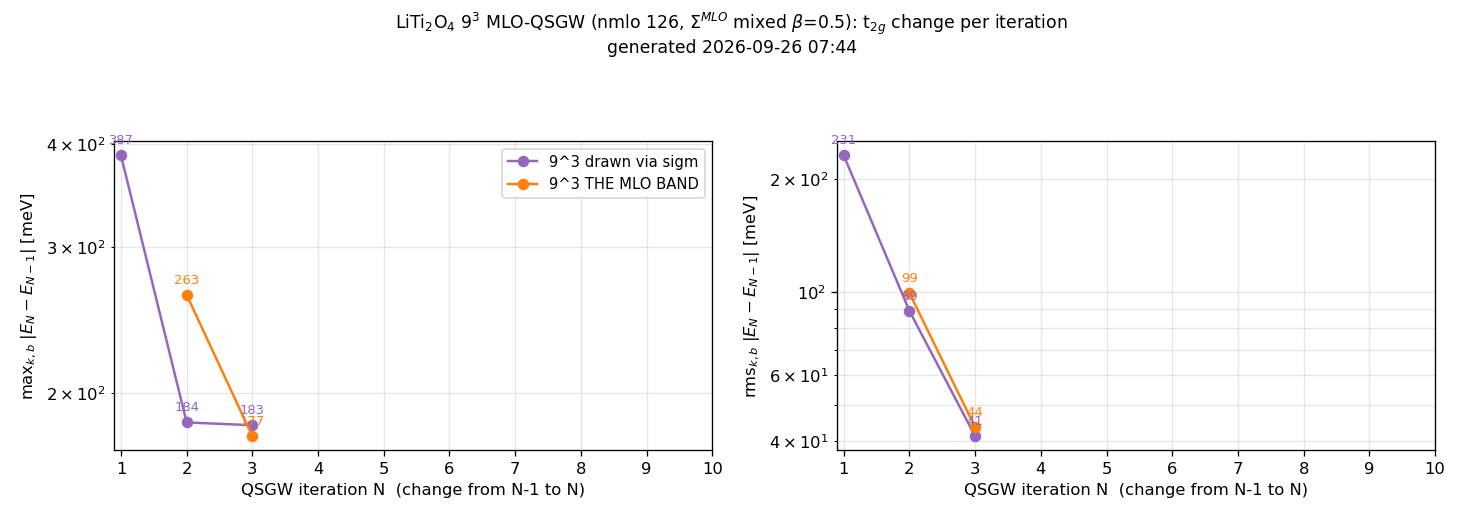
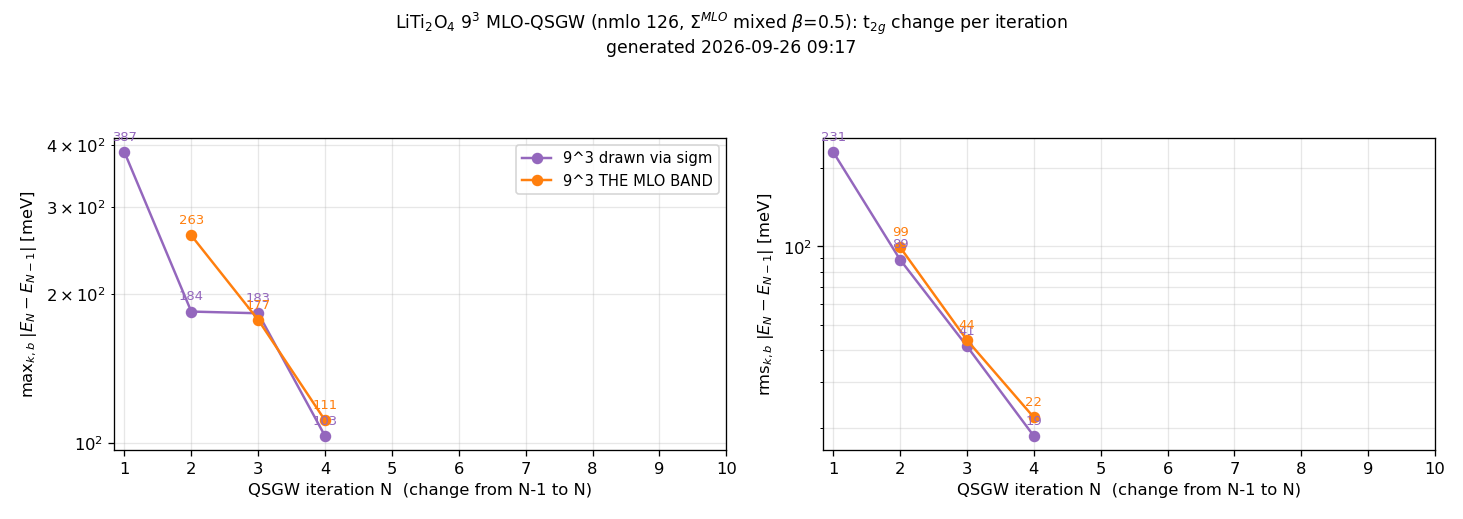
kBT_research: 9^3 iteration 4 -- clean; rms 41 -> 19 (sigm), 44 -> 22 (MLO band)

diff --git a/Samples/kBT/kBT_research.md b/Samples/kBT/kBT_research.md
@@ -15,7 +15,7 @@
 
 ## 最新の図（走行中のチェーンを映す。ここだけ上書きされる）
 
-**最終更新 2026-09-26 07:46**（9³ iter 3）／ 追っているのは **`liti_mlo_k9`**（**9³**、nmlo 126、$\Sigma^{\rm MLO}$ を β=0.5 で混合、10 反復投入、03:07 開始）。
+**最終更新 2026-09-26 09:18**（9³ iter 4）／ 追っているのは **`liti_mlo_k9`**（**9³**、nmlo 126、$\Sigma^{\rm MLO}$ を β=0.5 で混合、10 反復投入、03:07 開始）。
 6³ の v9 は 10 反復で完了し、最終図は 03:15 のエントリに凍結した。
 
 | 列 | 何を描いたか | 描き方 |
@@ -45,6 +45,7 @@
 | 1 | 04:39 | 5314 | 19 | 387 / 231（LDA から）| — | 混合 543.85 → 271.92（半分）、MISS 0 |
 | 2 | 06:10 | 5326 | 11 | 184 / 89 | 263 / 99 | $x_0$ を `.prev` から、MISS 0 |
 | 3 | 07:41 | 5336 | 11 | 183 / 41 | 177 / 44 | 9³ 用期待値で ANOMALY 0 |
+| 4 | 09:14 | 5427 | 10 | 103 / 19 | 111 / 22 | ANOMALY 0 |
 
 **9³ での正常値**（6³ と違うので注意。`check_iter.sh` は `CHECK_MLOON=35 CHECK_GWDRV=50 CHECK_MAXSECS=12000` で使う）
 
